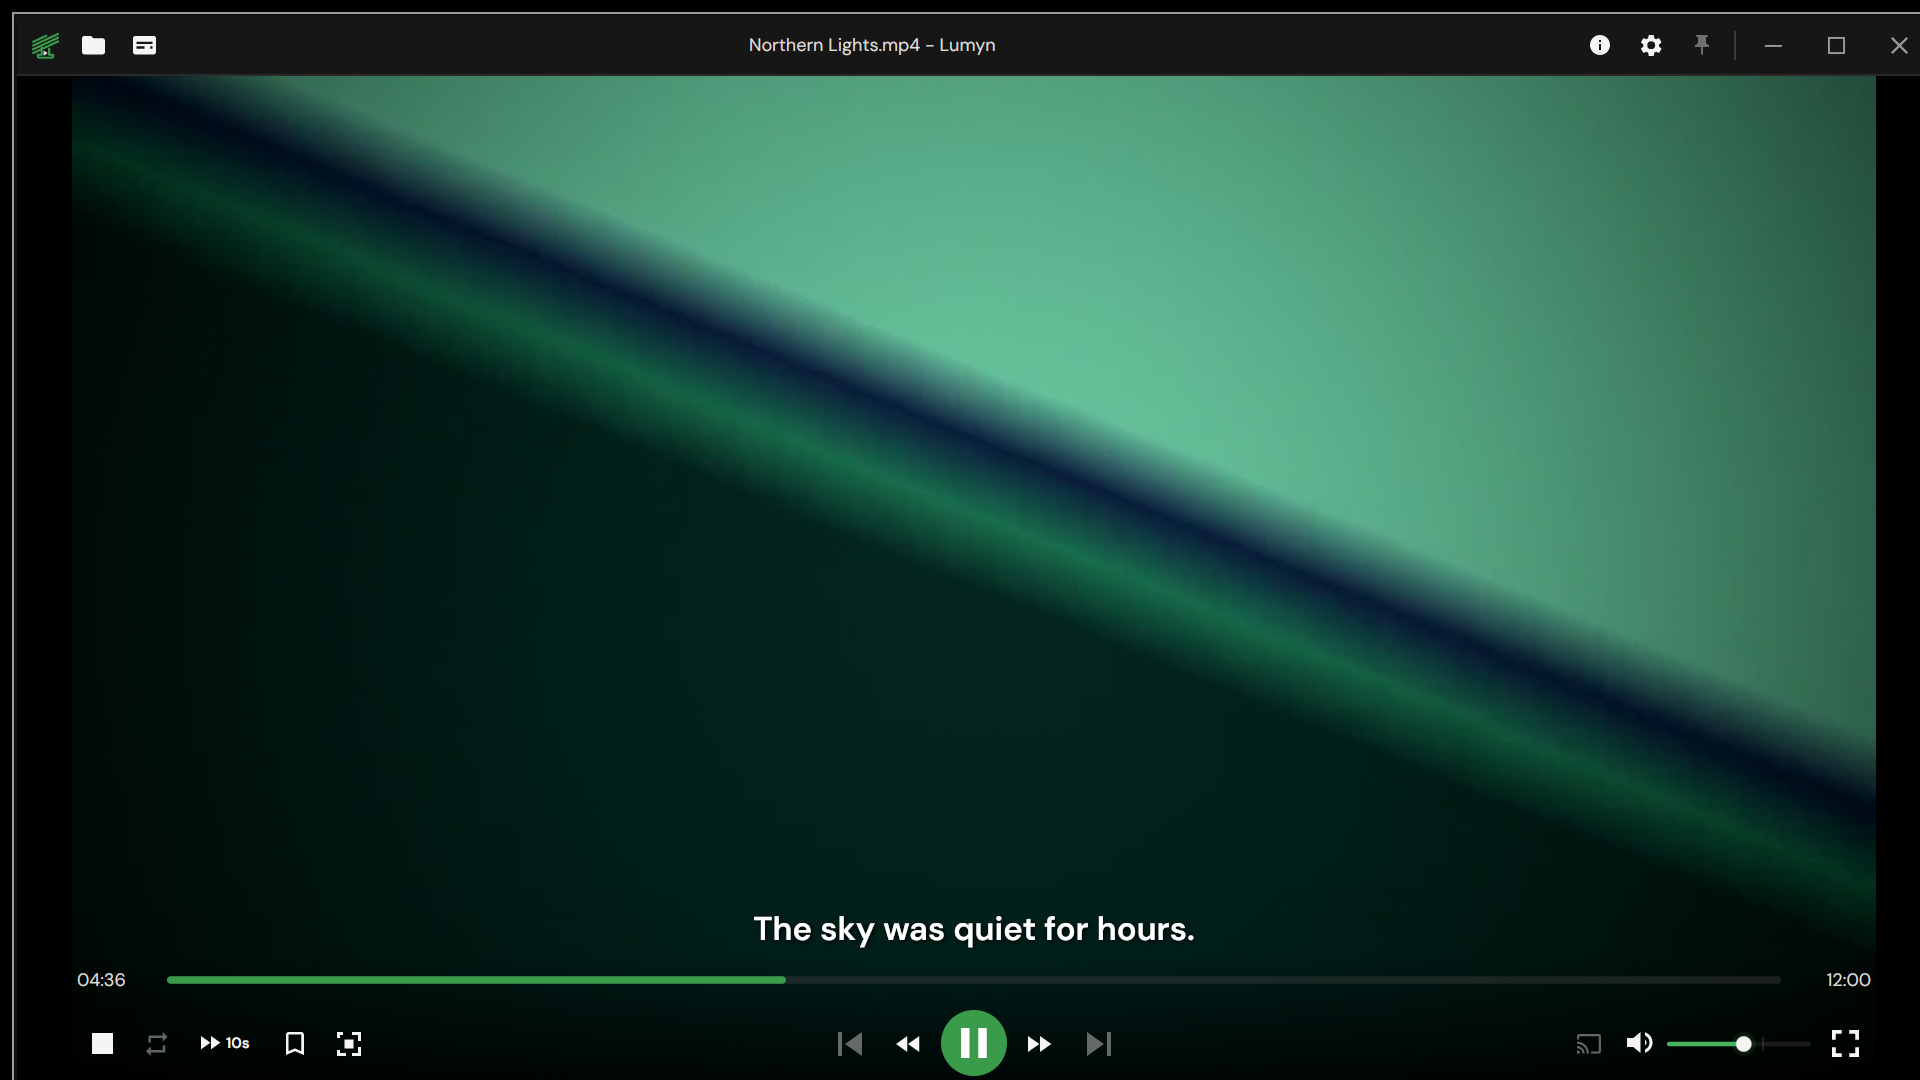
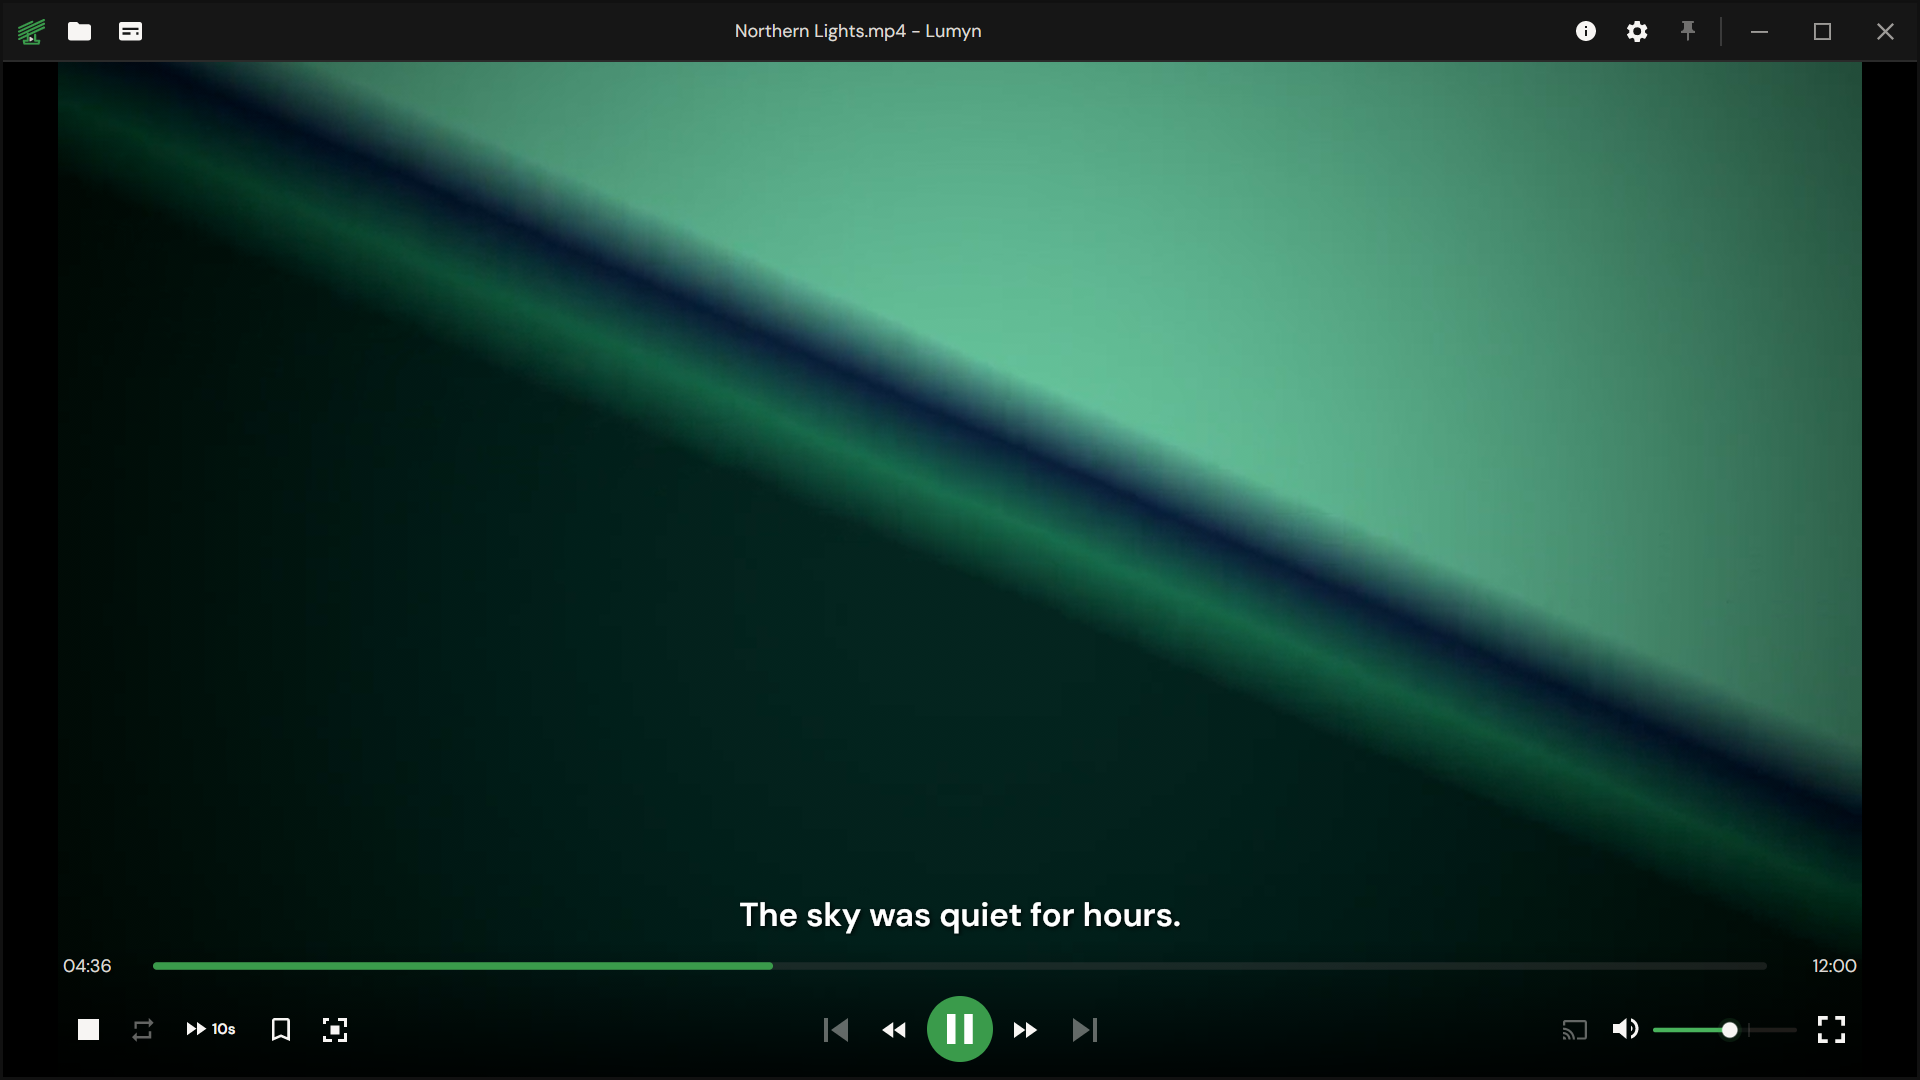
docs: add store screenshot capture workflow and refresh screenshots
- Add docs/release/store-screenshots.md describing how to regenerate listing screenshots with scripts/capture-store-screenshots.sh (Xvfb + xdotool, isolated config, generated sample media)
- Refresh Microsoft Store and Snap Store screenshot sets to match current UI
- Document in AGENTS.md that store screenshots must be recaptured after visible UI changes, and that LUMYN_CAPTURE_MODE=1 is scoped to capture behaviour only
- Update the AGENTS.md project tree to list the new docs, screenshot folder and capture script

diff --git a/AGENTS.md b/AGENTS.md
@@ -70,7 +70,10 @@ lumyn-media-player/
 ├── docs/
 │   └── release/
 │       ├── ppa.md                   # Ubuntu PPA setup and required GitHub secrets
-│       └── snap-store.md            # Snap Store publish setup and required GitHub secret
+│       ├── snap-store.md            # Snap Store publish setup and required GitHub secret
+│       └── store-screenshots.md     # How to regenerate and upload store listing screenshots
+│
+├── docs/store-screenshots/          # Generated store screenshots (microsoft-store/, snap-store/)
 │
 ├── src/
 │   ├── Lumyn.App/                   # UI / Presentation layer
@@ -125,7 +128,8 @@ lumyn-media-player/
 ├── scripts/
 │   ├── build-linux.sh               # Linux .deb packaging (266 lines)
 │   ├── build-windows.ps1            # Windows installer via Inno Setup (363 lines, PowerShell)
-│   └── build-snap.sh                # Snap / Ubuntu App Center packaging wrapper
+│   ├── build-snap.sh                # Snap / Ubuntu App Center packaging wrapper
+│   └── capture-store-screenshots.sh # Xvfb + xdotool capture of store screenshots
 │
 ├── packaging/
 │   ├── windows/                     # Inno Setup .iss config
@@ -729,4 +733,5 @@ dotnet test Lumyn.sln
 - **Seek-thumbnail bitmap cache**: `MainWindow._thumbBitmapCache` (decoded hover-preview bitmaps, 0–1999 progress-bucket keys) is an LRU bounded to `MaxThumbBitmaps` (64); evicted and file-change/closed bitmaps are disposed. Keep eviction + disposal when touching it so heavy scrubbing can't grow memory unbounded.
 - **Bundled libmpv is old**: the `.deb` ships libmpv 0.37 (plus its FFmpeg/PipeWire/dbus) in `/opt/lumyn/lib`, while dev machines usually run a newer distro libmpv, so a bug can be invisible in `dotnet run`. Known trap: keyed sub-properties of `af-metadata` (`af-metadata/<label>/<key>`) segfault libmpv 0.37. Read the whole map (`af-metadata/viz`, a flat JSON object) and parse it, as `PlaybackService.GetAudioLevel` / `TryReadRmsLevel` do. To reproduce packaged behaviour from source: `LD_LIBRARY_PATH=/opt/lumyn/lib` (plus `LD_PRELOAD` of the system `libcrypto.so.3`/`libssl.so.3`, since system .NET needs a newer OpenSSL than the bundle).
 - **Child processes and LD_LIBRARY_PATH**: the `.deb` launcher prepends `/opt/lumyn/lib`. `Program.Main` calls `LibraryPathScrubber.RemoveBundledLibDirectory()` so ffmpeg, dbus-send and xdg-open don't inherit it (they fail against the bundled libs). This is safe because .NET's `Environment.SetEnvironmentVariable` only changes the managed copy used for child processes, and glibc already read the variable at startup. Spawn processes through `System.Diagnostics.Process` so they get the cleaned environment.
+- **Store screenshots after UI changes**: after any visible UI change, run `./scripts/capture-store-screenshots.sh` (needs `xvfb`, `xdotool`) and commit the refreshed `docs/store-screenshots/`; see `docs/release/store-screenshots.md`. The script sets `LUMYN_CAPTURE_MODE=1`, which `Program.CreateX11Options` uses to allow llvmpipe GLX and `PlaybackService` uses to set mpv `ao=null`. Keep that flag scoped to capture behaviour only. If chrome positions change, update the coordinate constants in the script.
 - **Tests**: `src/Lumyn.Test` uses xUnit. Prefer tests for deterministic core logic such as subtitle parsing, settings persistence, resume/bookmarks, and format decisions. Avoid unit tests that require mpv, OpenGL, real Chromecast devices, or Avalonia windows unless those dependencies are isolated.

diff --git a/docs/release/store-screenshots.md b/docs/release/store-screenshots.md
@@ -1,0 +1,25 @@
+# Store screenshots
+
+Store listing screenshots are generated, not taken by hand. Re-run the capture after any visible UI change (layout, theme, controls, dialogs) and upload the new set.
+
+```bash
+sudo apt install -y xvfb xdotool   # one-time
+./scripts/capture-store-screenshots.sh
+```
+
+It takes about 3–5 minutes (plus ~2 minutes the first time, to generate sample media) and writes:
+
+| Folder | Contents | Upload to |
+|---|---|---|
+| `docs/store-screenshots/microsoft-store/` | All 7 shots, 1920×1080 PNG | Partner Center → Lumyn → submission → **Store listings** → Screenshots (Desktop). Up to 10, at least 1366×768. |
+| `docs/store-screenshots/snap-store/` | Best 5, each under 2 MB (JPEG if a PNG is too large) | snapcraft.io → **My snaps** → lumyn → **Listing** → Screenshots. Up to 5. |
+
+Shots: home (recently played), video with subtitles, seek-bar preview, markers (bookmarks + chapters), audio queue, settings (watch modes), keyboard shortcuts.
+
+## How it works
+
+- Runs the Release build on a private 1920×1080 Xvfb display at 150% UI scale, with a throwaway `XDG_CONFIG_HOME` seeded with recent files, resume positions and bookmarks. Your real settings, desktop and speakers are untouched.
+- Sample media is generated with ffmpeg (abstract gradient videos with chapters and an `.srt`, a four-track album with covers), so no third-party content appears. It is cached in `artifacts/screenshot-media/`; bump `MEDIA_STAMP` in the script after adding files.
+- `LUMYN_CAPTURE_MODE=1` makes the app accept Mesa's software OpenGL (llvmpipe), which Avalonia rejects by default, and play through mpv's silent but real-time `null` audio output.
+- Avalonia's software OpenGL path is flaky under Xvfb: some launches show a black or grid-garbled video surface. The script checks two plain-video strips of every video shot (brightness plus edge density) and relaunches until the frame is clean.
+- Mouse positions for the seek bar, settings gear and the dialog's Shortcuts item are constants near the top of the scenes section. If the chrome moves, re-measure them from a fresh capture (`--keep-work` keeps logs and raw frames).
